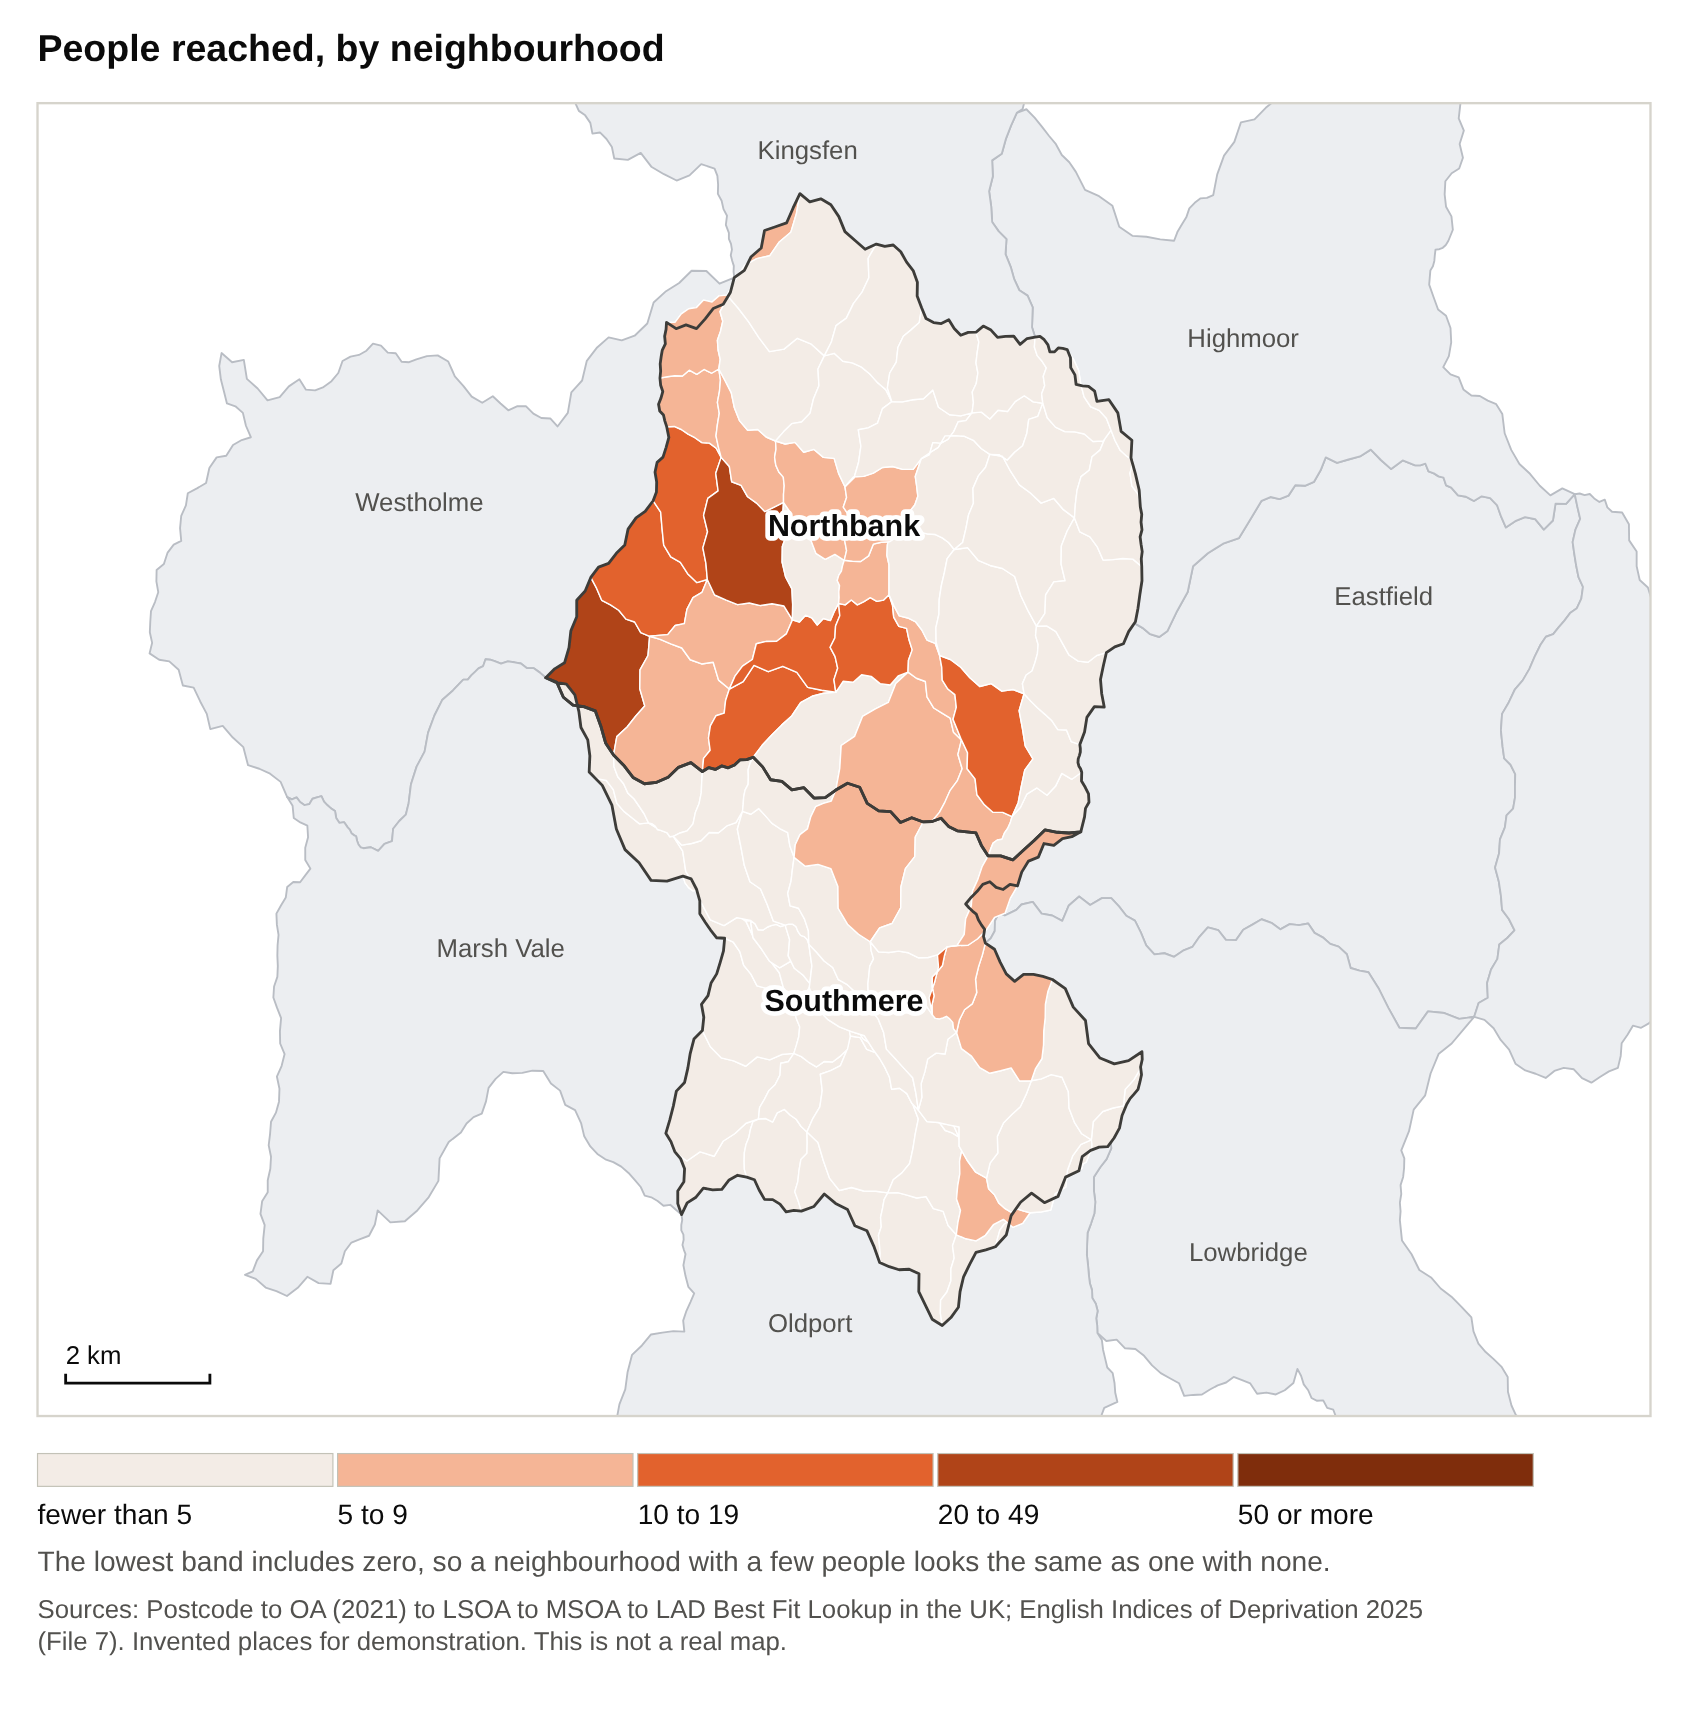
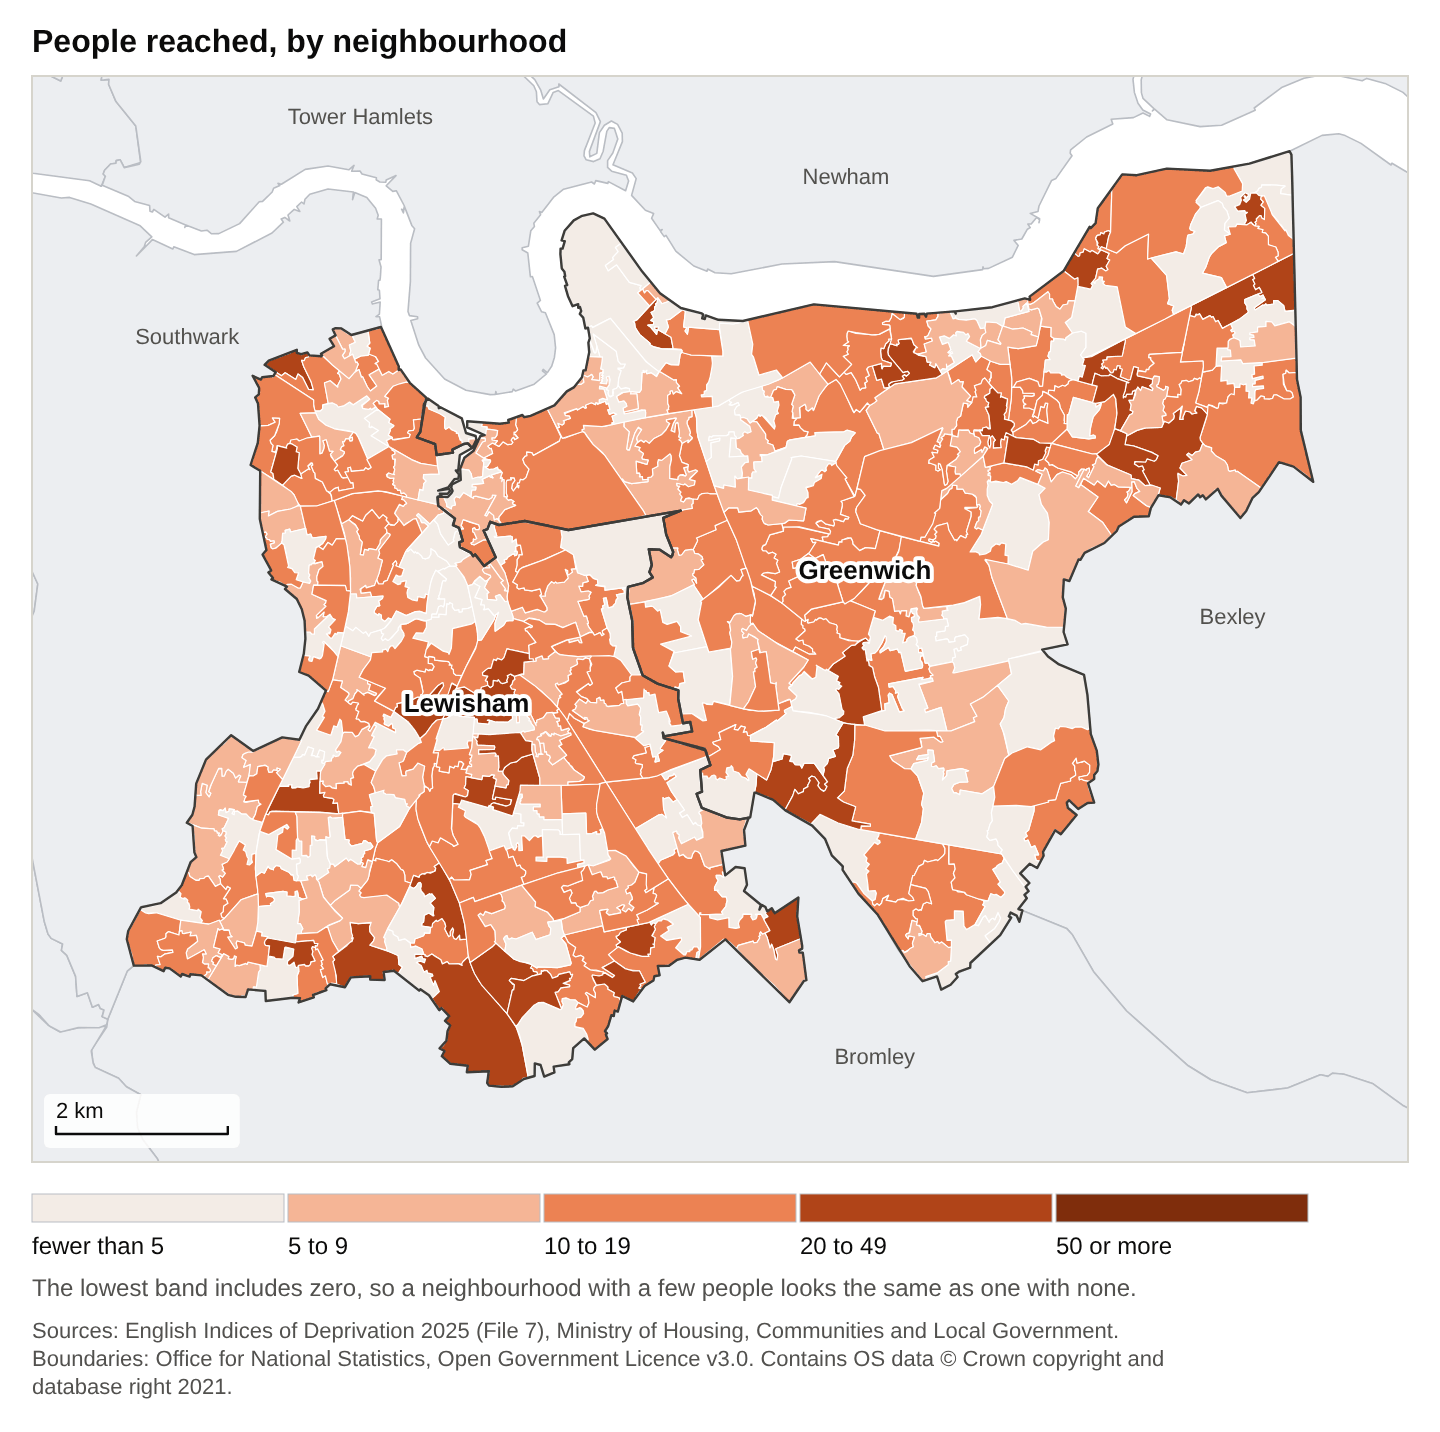
feat: show the two maps of reach on real places
The people reached map now shows the real neighbourhoods of Lewisham
and Greenwich, and the need map six real south-east London boroughs
with real need figures. The charity's counts in both are invented, and
each caption says which parts are real. Both are drawn by the
uk-open-data package on real outlines from the ONS. The other three
pictures stay on invented places: the provision map's default shading
is still being settled.

The picture rule in AGENTS.md and the note in README.md now allow real
places and open figures beside an invented charity's data.

diff --git a/index.html b/index.html
@@ -204,7 +204,7 @@
           <li><strong>The working</strong>, step by step, and every choice made for you, which you can change.</li>
           <li><strong>Checks only you can do</strong>, such as whether each row is one person, listed beside the figures.</li>
         </ul>
-        <p>There are five so far. Every picture below comes from invented data and invented places.</p>
+        <p>There are five so far. The first two maps are drawn on real places, Lewisham and Greenwich in London, with an invented charity&rsquo;s counts. The other three pictures use invented data and invented places.</p>
 
         <ul class="analyses">
           <li class="analysis">
@@ -216,9 +216,9 @@
               </dl>
             </div>
             <figure>
-              <a href="assets/analysis-deprivation-map.png"><img src="assets/analysis-deprivation-map.png" width="1688" height="1712" loading="lazy"
-                alt="Map of the neighbourhoods of two invented places, shaded in bands by how many people a charity reached in each, with the places around them in grey. The lowest band includes places with nobody and places with a hidden count."></a>
-              <figcaption class="small">People reached, by neighbourhood. Invented places.</figcaption>
+              <a href="assets/analysis-deprivation-map.png"><img src="assets/analysis-deprivation-map.png" width="1440" height="1432" loading="lazy"
+                alt="Map of the neighbourhoods of Lewisham and Greenwich in London, shaded in five bands by how many people an invented charity reached in each, with the boroughs around them in grey and the Thames to the north. The lowest band, fewer than 5, includes neighbourhoods with nobody."></a>
+              <figcaption class="small">People reached, by neighbourhood. Real neighbourhoods of Lewisham and Greenwich; the counts are invented.</figcaption>
             </figure>
           </li>
           <li class="analysis">
@@ -230,9 +230,9 @@
               </dl>
             </div>
             <figure>
-              <a href="assets/analysis-need-map.png"><img src="assets/analysis-need-map.png" width="1688" height="1748" loading="lazy"
-                alt="Map of ten invented local authorities, shaded by people reached for each 100 in need. Three are shaded as lower, middle and higher reach. The other seven have nobody or a hidden count."></a>
-              <figcaption class="small">People reached for each 100 in need, by local authority. Invented places.</figcaption>
+              <a href="assets/analysis-need-map.png"><img src="assets/analysis-need-map.png" width="1440" height="1498" loading="lazy"
+                alt="Map of six south-east London boroughs, shaded by people an invented charity reached for each 100 in need. Lewisham is shaded as higher reach and Greenwich as lower reach. Lambeth, Southwark, Bexley and Bromley have nobody or a hidden count."></a>
+              <figcaption class="small">People reached for each 100 in need, by local authority. Real boroughs and real need figures; the counts are invented.</figcaption>
             </figure>
           </li>
           <li class="analysis">

diff --git a/README.md b/README.md
@@ -20,8 +20,9 @@ Then open http://localhost:8000.
 
 - `index.html`: the whole page, with its styles. Every outside address it
   links to is listed in the comment at the top of the file.
-- `assets/`: the pictures. They come from the page that runs the analyses,
-  on invented data.
+- `assets/`: the pictures. The two maps of reach are drawn by the
+  uk-open-data package on real places with an invented charity's counts.
+  The others come from the page that runs the analyses, on invented places.
 - `CNAME`: tells GitHub Pages the site's address. Leave it as it is.
 
 ## Changing it

diff --git a/AGENTS.md b/AGENTS.md
@@ -26,7 +26,9 @@ static page.
    Names that are about to change are listed in the comment at the top of
    `index.html`, with where each is used.
 6. No personal data about real people, and no personal email address. Any
-   picture of a result must come from invented data and say so.
+   picture of a result must use an invented charity's data and say so. Real
+   places and open data figures are fine, and the caption says which parts
+   are real.
 7. Do not rename or remove `CNAME`.
 
 ## Checks to run before pushing
